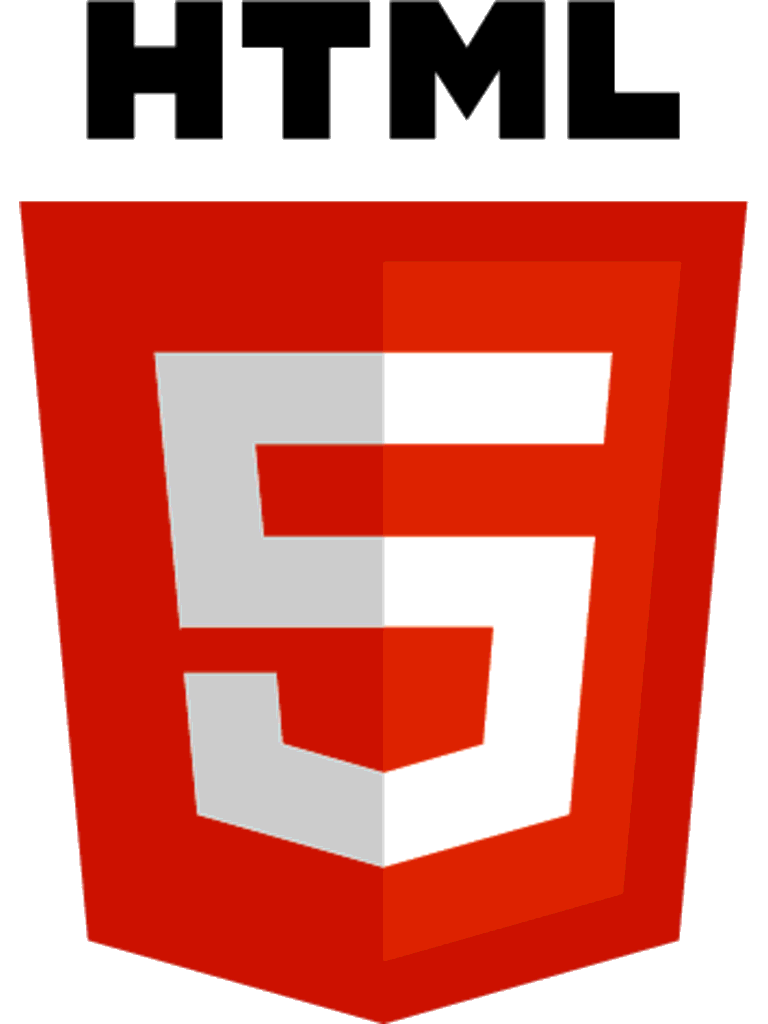
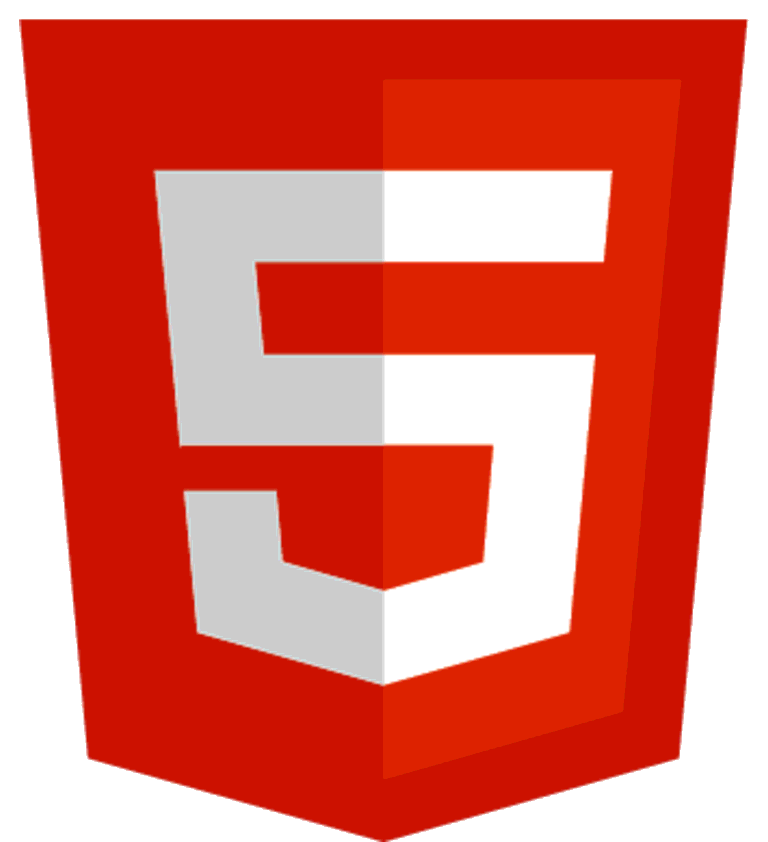
add register page

diff --git a/src/register.html b/src/register.html
@@ -1,0 +1,60 @@
+<!doctype html>
+<html lang="en">
+<head>
+    <meta charset="UTF-8">
+    <meta name="viewport"
+          content="width=device-width, user-scalable=no, initial-scale=1.0, maximum-scale=1.0, minimum-scale=1.0">
+    <meta http-equiv="X-UA-Compatible" content="ie=edge">
+    <link href="https://cdn.jsdelivr.net/npm/bootstrap@5.3.3/dist/css/bootstrap.min.css" rel="stylesheet"
+          integrity="sha384-QWTKZyjpPEjISv5WaRU9OFeRpok6YctnYmDr5pNlyT2bRjXh0JMhjY6hW+ALEwIH" crossorigin="anonymous">
+    <title>Register</title>
+    <style> label{margin: 1rem}</style>
+</head>
+<body>
+<div class="container mt-3">
+    <h3>Register</h3>
+    <div    >
+        <form>
+            <label>
+                Nombres
+                <input type="text" class="p-1" required>
+            </label>
+            <br>
+            <label>
+                Apellidos
+                <input type="text" class="p-1" required>
+            </label>
+            <br>
+            <label>
+                Correo
+                <input type="email" class="p-1" required>
+            </label>
+            <br>
+            <label>
+                Contraseña
+                <input type="password" class="p-1" required>
+            </label>
+            <br>
+            <label>
+                Confirmar Contraseña
+                <input type="password" class="p-1" required>
+            </label>
+            <br>
+            <label>
+                Tipo de Documento
+                <select class="p-1" required>
+                    <option value="1">Cédula de Ciudadanía</option>
+                    <option value="2">Tarjeta de Identidad</option>
+                    <option value="3">Cédula de Extranjería</option>
+                    <option value="4">Pasaporte</option>
+                </select>
+            </label>
+            <label>
+                Documento
+                <input type="text" class="p-1" required>
+            </label>
+        </form>
+    </div>
+</div>
+</body>
+</html>

diff --git a/src/index.html b/src/index.html
@@ -15,17 +15,23 @@
         <h1 class="titulo">Iniciar Sesión</h1>
         <div>
         <img class="mx-3" src="assets/uislogo.png" height="150" width="300">
-        <img class="mx-3" src="assets/html5.png" height="250" width="185">
+        <img class="mx-3" src="assets/html5.png" height="200" width="185">
         </div>
         <div class="mt-3">
             <form>
-                <input type="text" placeholder="usuario">
-                <input type="password" placeholder="contraseña">
+                <label>
+                    Usuario
+                    <input type="text" class="p-1" required>
+                </label>
+                <label>
+                    Contraseña
+                    <input type="password" class="p-1" required>
+                </label>
                 <button class="btn btn-sm btn-dark" type="submit">Entrar</button>
             </form>
         </div>
         <div>
-            <span>¿Ha olvidado su contraseña? <a href="https://google.com">Click Aquí</a></span>
+            <span>¿Ha olvidado su contraseña? <a href="https://www.youtube.com/watch?v=f_WuRfuMXQw&ab_channel=SheeshBruhSubscribeBro">Click Aquí</a></span>
             <br>
             <span> Desarrollado por:  <a href="https://uis.edu.co">Universidad Industrial de Santander</a></span>
         </div>

diff --git a/src/menu.html b/src/menu.html
@@ -1,0 +1,37 @@
+<!doctype html>
+<html lang="en">
+<head>
+    <meta charset="UTF-8">
+    <meta name="viewport"
+          content="width=device-width, user-scalable=no, initial-scale=1.0, maximum-scale=1.0, minimum-scale=1.0">
+    <meta http-equiv="X-UA-Compatible" content="ie=edge">
+    <link href="https://cdn.jsdelivr.net/npm/bootstrap@5.3.3/dist/css/bootstrap.min.css" rel="stylesheet"
+          integrity="sha384-QWTKZyjpPEjISv5WaRU9OFeRpok6YctnYmDr5pNlyT2bRjXh0JMhjY6hW+ALEwIH" crossorigin="anonymous">
+    <title>Menu</title>
+</head>
+<body>
+<div class="container mt-3">
+    <h3>Menu</h3>
+    <div>
+        <span>Formularios</span>
+        <ul>
+            <li><a href="index.html">Datos Usuario</a></li>
+            <li><a href="registro.html">Frases celebres de usuario</a></li>
+        </ul>
+    </div>
+    <div>
+        <span>Grillas</span>
+        <ul>
+            <li><a href="index.html">Normal</a></li>
+            <li><a href="registro.html">Avanzado</a></li>
+        </ul>
+    </div>
+    <div>
+        <span>Imágenes</span>
+        <ul>
+            <li><a href="index.html">Lenguajes</a></li>
+        </ul>
+    </div>
+</div>
+</body>
+</html>
